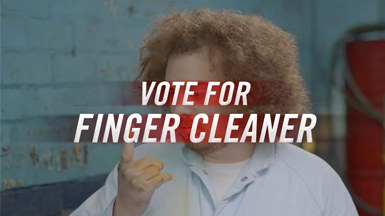
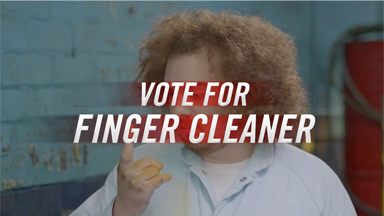
style changes

diff --git a/index.html b/index.html
@@ -49,7 +49,7 @@
               <button class="startButton">Get Started!</button>
           </div>
           <div class="page hidden permission" data-pageName="permission">
-              <h1 class="webcamTitle">LET US ACCESS YOUR WEBCAM BY CLICKING ALLOW</h1>
+              <h1 class="webcamTitle">Can We Borrow Your Webcam?</h1>
               <p>FACT: For this whole “vote with your face” thing to work properly, you'll need to click "Allow" in the dropdown beneath your browser toolbar or in the pop-up window. Once you do, be ready to watch the videos.</p>
               <p class="disclaimer">*BY CLICKING ‘ALLOW’, YOU AGREE TO LET US ACCESS YOUR WEBCAM. THIS WIDGET IS INTEDED TO HELP DETERMINE WHICH VIDEOS MAKE YOU SMILE THE MOST BUT DOES NOT VOTE FOR YOU OR REGISTER ANY VOTES FOR YOU.  YOU MUST VOTE ON YOUR OWN WITH YOUR OWN FINGERS, IN ACCORDANCE WITH THE <a href="https://thismoment-a.akamaihd.net/other/1381199386-2019.pdf" target="_blank">CRASH THE SUPER BOWL RULES</a>.</p>
           </div>
@@ -68,7 +68,6 @@
                       <div class="voteButton">Vote</div>
                   </div>
                   <div class="officeStats hidden">
-                      <!-- <p>Office</p> -->
                       <h1>Office Thief</h1>
                       <div class="voteOffice">Vote Office</div>
                       <button class="howButton">How this works</button>
@@ -85,7 +84,6 @@
                       <div class="voteButton">Vote</div>
                   </div>
                   <div class="timeStats hidden">
-                      <!-- <p>time</p> -->
                       <h1>Time Machine</h1>
                       <div class="voteTime">Vote Time Machine</div>
                       <button class="howButton">How this works</button>
@@ -94,7 +92,6 @@
                       <div class="voteButton">Vote</div>
                   </div>
                   <div class="cowboyStats hidden">
-                      <!-- <p>cowboy</p> -->
                       <h1>Cowboy Kid</h1>
                       <div class="voteCowboy">Vote Cowboy</div>
                       <button class="howButton">How this works</button>

diff --git a/css/style.css b/css/style.css
@@ -185,7 +185,7 @@ margin-top: 10px;
 
 .voteFinger {
     float: left;
-    width: 385px;
+    width: 384px;
     height: 216px;
     display: inline-block;
     background: transparent url(../images/vote_finger.png) scroll no-repeat;
